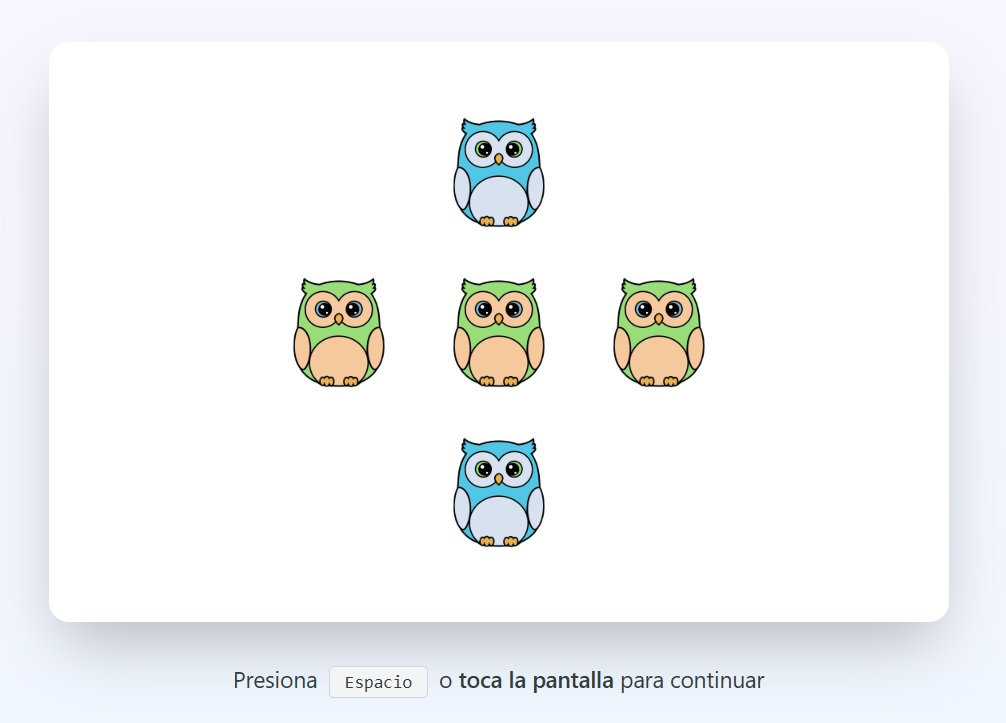
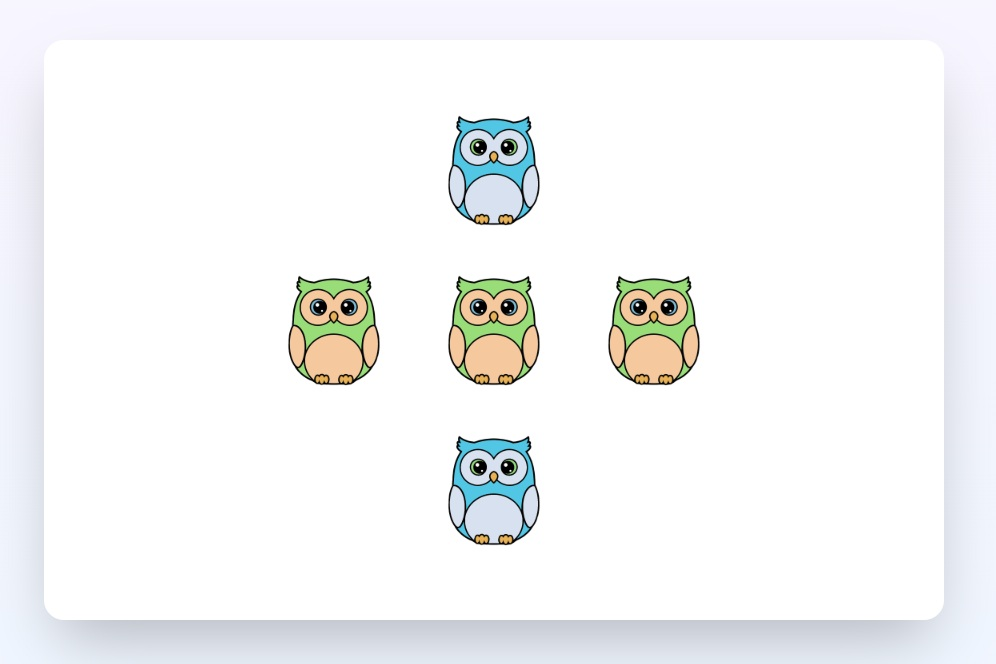
Polish Subitización UI and instructions
Refactor and polish the Subitización activity UI and copy. Make the instructions modal optional by removing the required title prop and falling back to “Instrucciones”; replace the Button component with a styled native button. Improve instructions content by using ArticleSection and TipBox components and update wording for clarity and accessibility. Tweak UI: adjust ActivityControlsText heading styles, remove emoji from page title, simplify LevelSelector headings, and update the activity image asset.

diff --git a/src/components/actividades/subitizacion/SubitizacionInstructionsContent.tsx b/src/components/actividades/subitizacion/SubitizacionInstructionsContent.tsx
@@ -1,53 +1,41 @@
 import ActivityControlsText from "../ActivityControlsText";
+import { ArticleSection, TipBox } from "@/components/pildoras/ArticleComponents";
 
 export default function SubitizacionInstructionsContent() {
     return (
         <>
-            <section>
-                <h3 className="text-xl font-semibold text-primary mb-3">
-                    ¿Qué es la subitización?
-                </h3>
+            <ArticleSection title="¿Qué es la subitización?">
                 <p className="mb-3">
-                    La subitización es la capacidad de reconocer rápidamente la cantidad de elementos
-                    en un conjunto pequeño sin necesidad de contarlos uno por uno.
+                    La subitización es la capacidad de <strong>reconocer rápidamente la cantidad de elementos</strong> en un conjunto pequeño <strong>sin necesidad de contarlos uno por uno</strong>.
                 </p>
                 <p>
                     De manera innata, las personas podemos identificar conjuntos de 1, 2 y 3 elementos de un solo vistazo.
-                    Esta habilidad se puede desarrollar, y con la práctica, los estudiantes podrán reconocer cantidades
-                    mayores de forma instantánea y aprender descomposiciones de números sin darse cuenta. 😉
+                    Esta habilidad se puede desarrollar, y con la práctica, los estudiantes podrán reconocer cantidades mayores de forma instantánea y aprender descomposiciones de números sin darse cuenta. 😉
                 </p>
-            </section>
+            </ArticleSection>
 
-            <section>
-                <h3 className="text-xl font-semibold text-primary mb-3">
-                    ¿Cómo funciona esta actividad?
-                </h3>
+            <ArticleSection title="¿Cómo funciona esta actividad?">
                 <ul className="list-disc list-inside space-y-2 ml-4">
-                    <li>Selecciona un nivel de dificultad apropiado para tus estudiantes</li>
+                    <li>Selecciona un nivel de dificultad apropiado para tus estudiantes. Comienza con dibujos de colores para facilitar la agrupación, y puntos negros para avanzar hacia lo abstracto.</li>
                     <li>Aparecerán iconos en diferentes posiciones de una cuadrícula</li>
                     <li>Los estudiantes deben identificar rápidamente cuántos iconos hay</li>
-                    <li>Pulsa la Barra espaciadora para mostrar el siguiente patrón</li>
-                    <li>Al completar todos los patrones del nivel, podrás avanzar al siguiente</li>
+                    <li>Pasa al siguiente patrón tocando la pantalla o presionando el Espacio o las flechas</li>
+                    <li>Al completar todos los patrones del nivel, podrás avanzar al siguiente, o repetirlo para aumentar la rapidez de reacción</li>
                 </ul>
-            </section>
+            </ArticleSection>
 
-            <section>
-                <h3 className="text-xl font-semibold text-primary mb-3">
-                    Niveles disponibles
-                </h3>
+            <ArticleSection title="Niveles disponibles">
                 <ul className="space-y-2 ml-4">
-                    <li><strong>Nivel 1:</strong> Números del 1 al 3</li>
-                    <li><strong>Nivel 2:</strong> Números del 1 al 4</li>
-                    <li><strong>Nivel 3:</strong> Números del 1 al 5</li>
+                    <li><strong>Nivel 1:</strong> Números del <strong>1 al 3</strong></li>
+                    <li><strong>Nivel 2:</strong> Números del <strong>1 al 4</strong></li>
+                    <li><strong>Nivel 3:</strong> Números del <strong>1 al 5</strong></li>
                 </ul>
-            </section>
+            </ArticleSection>
 
-            <div className="bg-blue-50 border-l-4 border-blue-500 p-4 rounded">
-                <p className="text-blue-900">
-                    <strong>💡 Consejo:</strong> Anima a los estudiantes a decir el número en voz alta
-                    sin contar. El objetivo es desarrollar el reconocimiento visual inmediato.
-                </p>
-            </div>
+            <TipBox>
+                    Consejo: Anima a los estudiantes a decir el número <strong> en voz alta
+                    sin contar</strong>. El objetivo es desarrollar el reconocimiento visual inmediato.
+            </TipBox>
 
             <ActivityControlsText />
         </>

diff --git a/src/components/actividades/ActivityInstructionsModal.tsx b/src/components/actividades/ActivityInstructionsModal.tsx
@@ -2,11 +2,10 @@
 
 import { ReactNode, useEffect, useId, useState } from "react";
 import { CircleHelp, X } from "lucide-react";
-import { Button } from "@/components/ui/button";
 import ExpandingFab from "../ExpandingFab";
 
 interface ActivityInstructionsModalProps {
-    title: string;
+    title?: string;
     children: ReactNode;
 }
 
@@ -62,7 +61,7 @@ export default function ActivityInstructionsModal({
 
                         <div className="pr-10">
                             <h2 id={titleId} className="text-2xl sm:text-3xl font-bold mb-6">
-                                {title}
+                                {title || "Instrucciones"}
                             </h2>
                             <div className="space-y-6 text-base sm:text-lg">
                                 {children}
@@ -70,9 +69,12 @@ export default function ActivityInstructionsModal({
                         </div>
 
                         <div className="mt-8 flex justify-end">
-                            <Button onClick={() => setIsOpen(false)} className="px-6">
+                            <button
+                                className="px-8 py-4 bg-primary hover:bg-primary-hover text-white font-bold text-lg rounded-xl shadow-lg transition-all duration-300 hover:shadow-xl hover:-translate-y-0.5"
+                                onClick={() => setIsOpen(false)}
+                            >
                                 Entendido
-                            </Button>
+                            </button>
                         </div>
                     </div>
                 </div>

diff --git a/src/components/actividades/subitizacion/LevelSelector.tsx b/src/components/actividades/subitizacion/LevelSelector.tsx
@@ -9,7 +9,7 @@ interface LevelSelectorProps {
 export default function LevelSelector({ concreteLevels, abstractLevels, onSelectLevel }: LevelSelectorProps) {
     const renderLevelCard = (level: Level, mode: 'concrete' | 'abstract') => {
         const isAvailable = level.patterns.length > 0;
-        
+
         return (
             <button
                 key={`${mode}-${level.id}`}
@@ -56,9 +56,8 @@ export default function LevelSelector({ concreteLevels, abstractLevels, onSelect
             {/* Sección Concreto */}
             <section>
                 <div className="mb-6">
-                    <h2 className="text-3xl font-bold mb-2">
-                        🦉 Concreto (Búhos)
-                    </h2>
+                    <h2 className="text-3xl font-bold mb-2">Concreto (Búhos)</h2>
+
                     <p className="text-text-secondary">
                         Reconoce cantidades con búhos de colores
                     </p>
@@ -72,7 +71,7 @@ export default function LevelSelector({ concreteLevels, abstractLevels, onSelect
             <section>
                 <div className="mb-6">
                     <h2 className="text-3xl font-bold mb-2">
-                        ⚫ Abstracto (Puntos)
+                        Abstracto (Puntos)
                     </h2>
                     <p className="text-text-secondary">
                         Reconoce cantidades con representación abstracta

diff --git a/src/app/actividades/subitizacion/page.tsx b/src/app/actividades/subitizacion/page.tsx
@@ -134,7 +134,7 @@ export default function SubitizacionPage() {
 
     return (
         <div className="min-h-screen bg-linear-to-b from-purple-50 to-blue-50 pb-20">
-            <ActivityInstructionsModal title="Cómo jugar a Subitización">
+            <ActivityInstructionsModal>
                 <SubitizacionInstructionsContent />
             </ActivityInstructionsModal>
 
@@ -154,7 +154,7 @@ export default function SubitizacionPage() {
                         </button>
                     )}
                     <h1 className="text-4xl font-bold">
-                        Subitización 🦉
+                        Subitización
                     </h1>
                     {currentLevel && gameState === 'playing' && (
                         <p className="text-text-secondary mt-2">

diff --git a/src/components/actividades/ActivityControlsText.tsx b/src/components/actividades/ActivityControlsText.tsx
@@ -9,7 +9,7 @@ export default function ActivityControlsText() {
 
     return (
         <>
-            <h3 className="text-xl font-semibold text-primary mb-3">
+            <h3 className="text-2xl font-bold text-primary mb-6 flex items-center gap-3">
                 Controles
             </h3>
             {isTouchDevice ? (